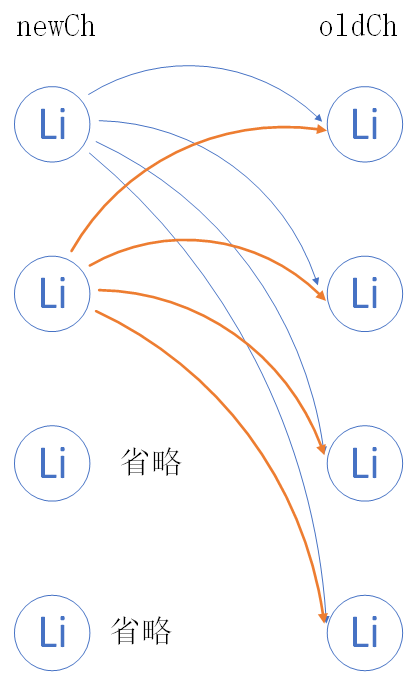
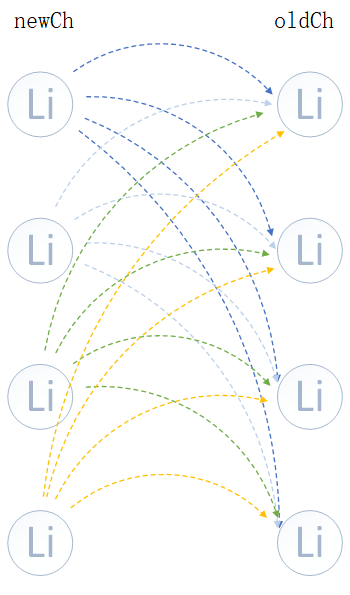
更新子节

diff --git a/docs/vue2.0/vittualdomAndDiff.md b/docs/vue2.0/vittualdomAndDiff.md
@@ -483,7 +483,9 @@ function sameVnode (a, b) {
 
  上一章我们学习了在patch过程中主要干3件事:创建节点、删除节点、更新节点，前2种都很简单，而更新节点较难些，本章我们要学习的是当vnode和oldVnode都有子节点，需要更新子节点的情况，这是dom-diff的核心，也是本章要学习的内容。
 
-### 3.3.1 如何更新子节点
+### 3.3.2 如何更新子节点
+
+🔥 传统的节点对比方式
 
 当vnode和oldVnode都有子节点时，我们会比较虚拟dom对象中的children,这个数组包含了所有子节点。我们把包含vnode的所有子节点数组命名为newCh而oldVnode的所有子节点命名为oldCh，现在我们通过循环对比子节点。
 
@@ -499,27 +501,50 @@ function sameVnode (a, b) {
 
 从上面代码和图可知，我们通过循环进行比较新旧子节点，newCh每项节点会跟oldCh的每项节点进行对比。
 
-对比中会出现以下几种情况
+🔥 理解未处理与已处理
+
+![](~@/vue2.0/patch2.png)
+
+从上面可知,我们假如newCh数组中的前2个子节点根据不同的情况给odlCh数组的节点打了补丁,我们称为已处理,没有对比的我们称未处理。
+
+🔥 对比中会出现以下几种情况
 
 1. <font >**创建子节点：**</font>
 
   newCh某个节点跟oldCh的每个节点进行对比，发现没有找到，那么需要创建节点插入到oldCh中
 
+  ![](~@/vue2.0/patch3.png)
+
+  当newCh的节点在oldCh里面没找到时，我们需要创建节点，那我们插入到什么位置？假设我们插入已处理的后面，看起来是对的，那么如果newCh第三个节点在oldCh里面再没找到时，还适用这种方式吗？
+
+  ![](~@/vue2.0/patch4.png)
+  
+  从上图可以看出newCh第三个节点在oldCh里面再没找到时，如果插入已处理的后面，新增的节点将会插入oldCh第二位置，那么就不对应了，<font color="red">**所以我们新增的节点应该插入未处理的前面就适应各种场景了**</font>。
+
+
 2. <font >**删除子节点：**</font>
 
   当newCh的第一个节点都循环完后，发现oldCh里面还有未处理的节点；这就说明在newCh没有这个节点；那么我们需要删除oldCh未处理的节点
+
+   ![](~@/vue2.0/patch5.png)
 
 3. <font >**移动子节点：**</font>
 
   newCh的某个节点跟oldCh每一个节点对比中发现有相同的，但是位置不同，那么我们需要更新oldCh的该节点让其与newCh的相同，在以newCh位置为基准去移动oldCh这个节点的位置
 
+   ![](~@/vue2.0/patch6.png)
+
 4. <font >**更新子节点：**</font>
 
  当newCh的某个节点和oldCh某个节点相同，位置也相同，那么我们需要更新oldCh的该节点让其与newCh的相同
 
-## 3.3 优化的更新子节点
+### 3.3.3 创建子节点
 
-### 3.3.1 前言
+
+
+## 3.4 优化的更新子节点
+
+### 3.4.1 前言
 
  我们上章传统的做法是拿newCh的每个子节点跟oldCh的子节点逐一对比，根据找到或没找到；不同的情况去做不同的处理。这种做法虽然能解决问题，但是有不足的地方，当子节点过多，这种循环算法变得很复杂；从而影响页面加载，本章我们将介绍vue中是怎么做的。
 
@@ -551,19 +576,22 @@ function sameVnode (a, b) {
 
   再拿newCh数组未处理的最后一个节点和oldCh数组未处理的第一个节点进行对比，如果相同就更新节点，如果不同就进入第四种情况的对比
 
- 4. <font >**旧前新后对比**</font>
+ 4. <font >**新前与旧后对比**</font>
 
  再拿newCh数组未处理的第一个节点和oldCh数组未处理的最后一个节点进行对比，如果相同就更新节点，如果不同就进入常规的对比，后面会介绍
 
 如图所式
 
+ ![](~@/vue2.0/patch7.png)
 
-### 3.3.2 新前与旧前对比
-### 3.3.3 新后与旧后对比
-### 3.3.4 新后与旧前对比
-### 3.3.5 旧前与新后对比
+### 3.4.2 新前与旧前对比
+### 3.4.3 新后与旧后对比
+### 3.4.4 新后与旧前对比
+ ![](~@/vue2.0/patch8.png)
+### 3.4.5 新前与旧后对比
+ ![](~@/vue2.0/patch9.png)
 
-### 3.3.6 源码解析
+### 3.4.6 源码解析
 
 千呼万唤始出来，终于来到了我们的源码篇，根据上面的知识的铺垫，我们对vue中的diff做法有了一定了解，那么我们下面升入源码中看看是怎么做的
 
